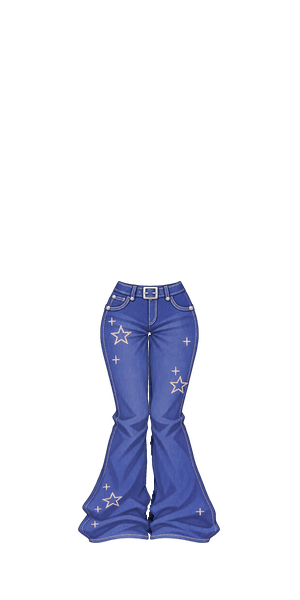
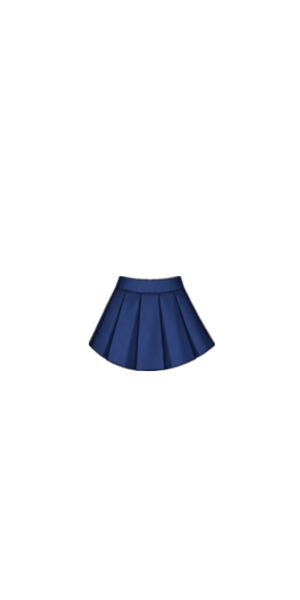
o

Changed region(s): [[0.24, 0.45, 0.75, 0.93]]

diff --git a/main.py b/main.py
@@ -26,7 +26,7 @@ clock = pygame.time.Clock()
 selected_base = load_asset("bases", "base_1")
 selected_eyes = load_asset("eyes", "green")
 selected_hair = load_asset("hair", "short", "black")
-selected_bottoms = load_asset("Bottoms", "bottoms_2")
+selected_bottoms = load_asset("Bottoms", "bottoms_3")
 
 # highlighted button 
 selected_category = None
@@ -57,18 +57,19 @@ while running:
     clock.tick(60) 
     # Use the .fill function to set window color
     window.fill(PINK)
-    #
+
+    # DRAW Panels
     pygame.draw.rect(window, PERIWINKLE, panel)
     pygame.draw.rect(window, PURPLE, character_panel)
     pygame.draw.rect(window, PERIWINKLE, inner_character_panel)
 
-    #
+    # 
     window.blit(selected_base, (100,60))
     window.blit(selected_eyes, (100,60))
     window.blit(selected_hair, (100,60))
     window.blit(selected_bottoms, (100,60))
 
-
+    
     draw_customization(window, selected_category)
 
     # Update the full display surface to the screen

diff --git a/customization.py b/customization.py
@@ -39,6 +39,7 @@ def draw_customization(window, selected_category):
 
 def handle_customization_event(event, selected_category):
     if event.type == pygame.MOUSEBUTTONDOWN and event.button == 1:
+        # dictionary 
         buttons = {
             "eyes": eyes_button,
             "hair": hair_button,
